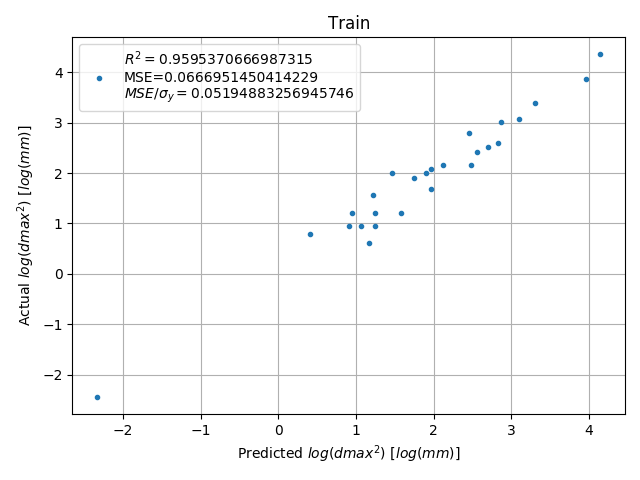
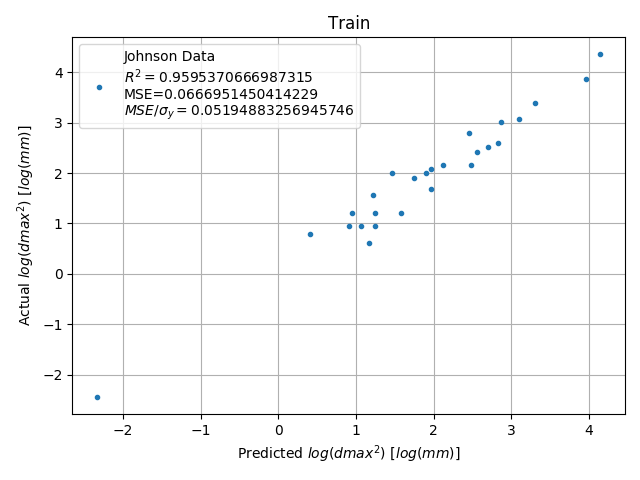
Separted predictions based on experimental tg and tg from md.

Changed region(s): [[0.125, 0.0938, 0.5625, 0.2812], [0.125, 0.1562, 0.1562, 0.1875]]

diff --git a/ml/scripts/fit_johnson_m_fits.py b/ml/scripts/fit_johnson_m_fits.py
@@ -6,16 +6,29 @@ from sklearn import metrics
 import pandas as pd
 import numpy as np
 
+import pickle
 
-def score(r2, mse, mseoversigmay):
 
-    label=r'$R^{2}=$'+str(r2)
+def score(label, r2, mse, mseoversigmay):
+
+    label += '\n'
+    label += r'$R^{2}=$'+str(r2)
     label += '\n'
     label += r'MSE='+str(mse)
     label += '\n'
     label += r'$MSE/\sigma_{y}=$'+str(mseoversigmay)
 
     return label
+
+
+def ml(reg, X_train, y_train):
+
+    y_pred = reg.predict(X_train)  # Predictions
+    r2 = metrics.r2_score(y_train, y_pred)  # R^2
+    mse = metrics.mean_squared_error(y_train, y_pred)  # MSE
+    mseoversigmay = mse/np.std(y_train)  # MSE/sigmay
+
+    return y_pred, r2, mse, mseoversigmay
 
 
 # Data paths
@@ -48,39 +61,34 @@ dfj['log(dmax^2)'] = np.log10(dfj['dmax']**2)
 dfmfit['log(dmax^2)'] = np.log10(dfmfit['dmax']**2)
 
 # ML
-X_train = dfj[['m', 'tg/tl']].values
-X_test = dfmfit[['m', 'tg_md/tl']].values
+X_johnson = dfj[['m', 'tg/tl']].values
+y_johnson = dfj['log(dmax^2)'].values
 
-y_train = dfj['log(dmax^2)'].values
-y_test = dfmfit['log(dmax^2)'].values
+X_mdpure = dfmfit[['m_md', 'tg_md/tl']].values
+X_mdpartial = dfmfit[['m_exp', 'tg_exp/tl']].values
+y_md = dfmfit['log(dmax^2)'].values
 
 # Model
-reg = linear_model.LinearRegression()
-reg.fit(X_train, y_train)
+reg = pickle.load(open('../model/johnson.sav', 'rb'))
 
 # Predictions
-y_johnson_pred = reg.predict(X_train)
-y_mfit_pred = reg.predict(X_test)
+predj = ml(reg, X_johnson, y_johnson)
+predmdpure = ml(reg, X_mdpure, y_md)
+predmdpartial =  ml(reg, X_mdpartial, y_md)
 
-# ML performance metrics
-r2j = metrics.r2_score(y_train, y_johnson_pred)  # R^2
-r2mfit = metrics.r2_score(y_test, y_mfit_pred)  # R^2
-
-msej = metrics.mean_squared_error(y_train, y_johnson_pred)  # MSE
-msemfit = metrics.mean_squared_error(y_test, y_mfit_pred)  # MSE
-
-mseoversigmayj = msej/np.std(y_train)  # MSE/sigmay
-mseoversigmaymfit = msemfit/np.std(y_test)  # MSE/sigmay
+predj, r2j, msej, mseoversigmayj = predj
+predmdpure, r2mdpure, msemdpure, mseoversigmaymdpure = predmdpure
+predmdpartial, r2mdpartial, msemdpartial, mseoversigmaymdpartial = predmdpartial
 
 # Plots for prediction on training set
 fig, ax = pl.subplots()
 
 ax.plot(
-        y_johnson_pred,
-        y_train,
+        predj,
+        y_johnson,
         marker='.',
         linestyle='none',
-        label=score(r2j, msej, mseoversigmayj)
+        label=score('Johnson Data', r2j, msej, mseoversigmayj)
         )
 
 ax.legend()
@@ -94,26 +102,47 @@ fig.tight_layout()
 
 fig.savefig('../figures/johnson_fit_train')
 
-# Pltos for prediction on testing sets
-fig, ax = pl.subplots()
+# Plots for prediction on testing sets
 
 ax.plot(
-        y_mfit_pred,
-        y_test,
-        marker='8',
+        predmdpure,
+        y_md,
+        marker='*',
         linestyle='none',
-        label=score(r2mfit, msemfit, mseoversigmaymfit)
+        label=score(r'$T_{g}$ MD', r2mdpure, msemdpure, mseoversigmaymdpure)
         )
 
 ax.legend()
 ax.grid()
 
-ax.set_title('Test')
+ax.set_title(r'Test with MD $T_{g}$')
 ax.set_xlabel(r'Predicted $log(dmax^2)$ $[log(mm)]$')
 ax.set_ylabel(r'Actual $log(dmax^2)$ $[log(mm)]$')
 
 fig.tight_layout()
 
-fig.savefig('../figures/johnson_fit_test')
+fig.savefig('../figures/johnson_fit_test_pure')
+
+# Plots for prediction on testing sets
+
+ax.plot(
+        predmdpartial,
+        y_md,
+        marker='8',
+        linestyle='none',
+        label=score(r'$T_{g}$ Exp', r2mdpartial, msemdpartial, mseoversigmaymdpartial)
+        )
+
+ax.legend()
+ax.grid()
+
+ax.set_title(r'Test with Experimental $T_{g}$')
+ax.set_xlabel(r'Predicted $log(dmax^2)$ $[log(mm)]$')
+ax.set_ylabel(r'Actual $log(dmax^2)$ $[log(mm)]$')
+
+fig.tight_layout()
+
+fig.savefig('../figures/johnson_fit_test_partial')
+
 
 pl.show()

diff --git a/ml/scripts/m_vs_tgovertstar.py b/ml/scripts/m_vs_tgovertstar.py
@@ -15,11 +15,13 @@ df = pd.read_csv(df)
 
 # Calculate features
 df['tg_md/tstar'] = df['tg_md_mean']/df['tstar_mean']
+df['tg_exp/tstar'] = df['tg_exp']/df['tstar_mean']
 
 # Format data for machine learning
 compositions = df['composition'].values
 X_train = dfkelton[['tg/tstar']].values
-X_test = df[['tg_md/tstar']].values
+X_mdpure = df[['tg_md/tstar']].values
+X_mdpartial = df[['tg_exp/tstar']].values
 y_train = dfkelton['m'].values
 
 # Model
@@ -27,12 +29,14 @@ reg = linear_model.LinearRegression()
 reg.fit(X_train, y_train)
 
 # Prediction
-y_pred = reg.predict(X_test)
+y_mdpure = reg.predict(X_mdpure)
+y_mdpartial = reg.predict(X_mdpartial)
 
 # Create dataframe
 df = {}
 df['composition'] = compositions
-df['m'] = y_pred
+df['m_md'] = y_mdpure
+df['m_exp'] = y_mdpartial
 df = pd.DataFrame(df)
 df.to_csv('../data/m_fit.txt', index=False)
 
@@ -48,11 +52,19 @@ ax.plot(
         )
 
 ax.plot(
-        X_test,
-        y_pred,
+        X_mdpure,
+        y_mdpure,
         marker='8',
         linestyle='none',
-        label=r'Predicted Data'
+        label=r'Predicted: $T_{g}$ from MD'
+        )
+
+ax.plot(
+        X_mdpartial,
+        y_mdpartial,
+        marker='8',
+        linestyle='none',
+        label=r'Predited: $T_{g}$ from Exp.'
         )
 
 ax.legend()

diff --git a/ml/scripts/johnson_model.py b/ml/scripts/johnson_model.py
@@ -1,0 +1,40 @@
+from matplotlib import pyplot as pl
+
+from sklearn import linear_model
+
+import pandas as pd
+import numpy as np
+
+import pickle
+
+# Data paths
+dfmfit = '../data/m_fit.txt'
+dfj = '../data_original/johnson_data.txt'
+
+# Import data
+dfmfit = pd.read_csv(dfmfit)
+dfj = pd.read_csv(dfj)
+
+# Truncate data
+dfj = dfj.dropna()
+dfmfit = dfmfit.dropna()
+
+# Remove md data from johnson data
+dfj = dfj[~dfj['composition'].isin(dfmfit['composition'].values)]
+
+# Calculate features
+dfj['tg/tl'] = dfj['tg']/dfj['tl']
+
+# Take the log of the squared dmax
+dfj['log(dmax^2)'] = np.log10(dfj['dmax']**2)
+
+# ML
+X_train = dfj[['m', 'tg/tl']].values
+y_train = dfj['log(dmax^2)'].values
+
+# Model
+reg = linear_model.LinearRegression()
+reg.fit(X_train, y_train)
+
+# Save model
+pickle.dump(reg, open('../model/johnson.sav', 'wb')) 
